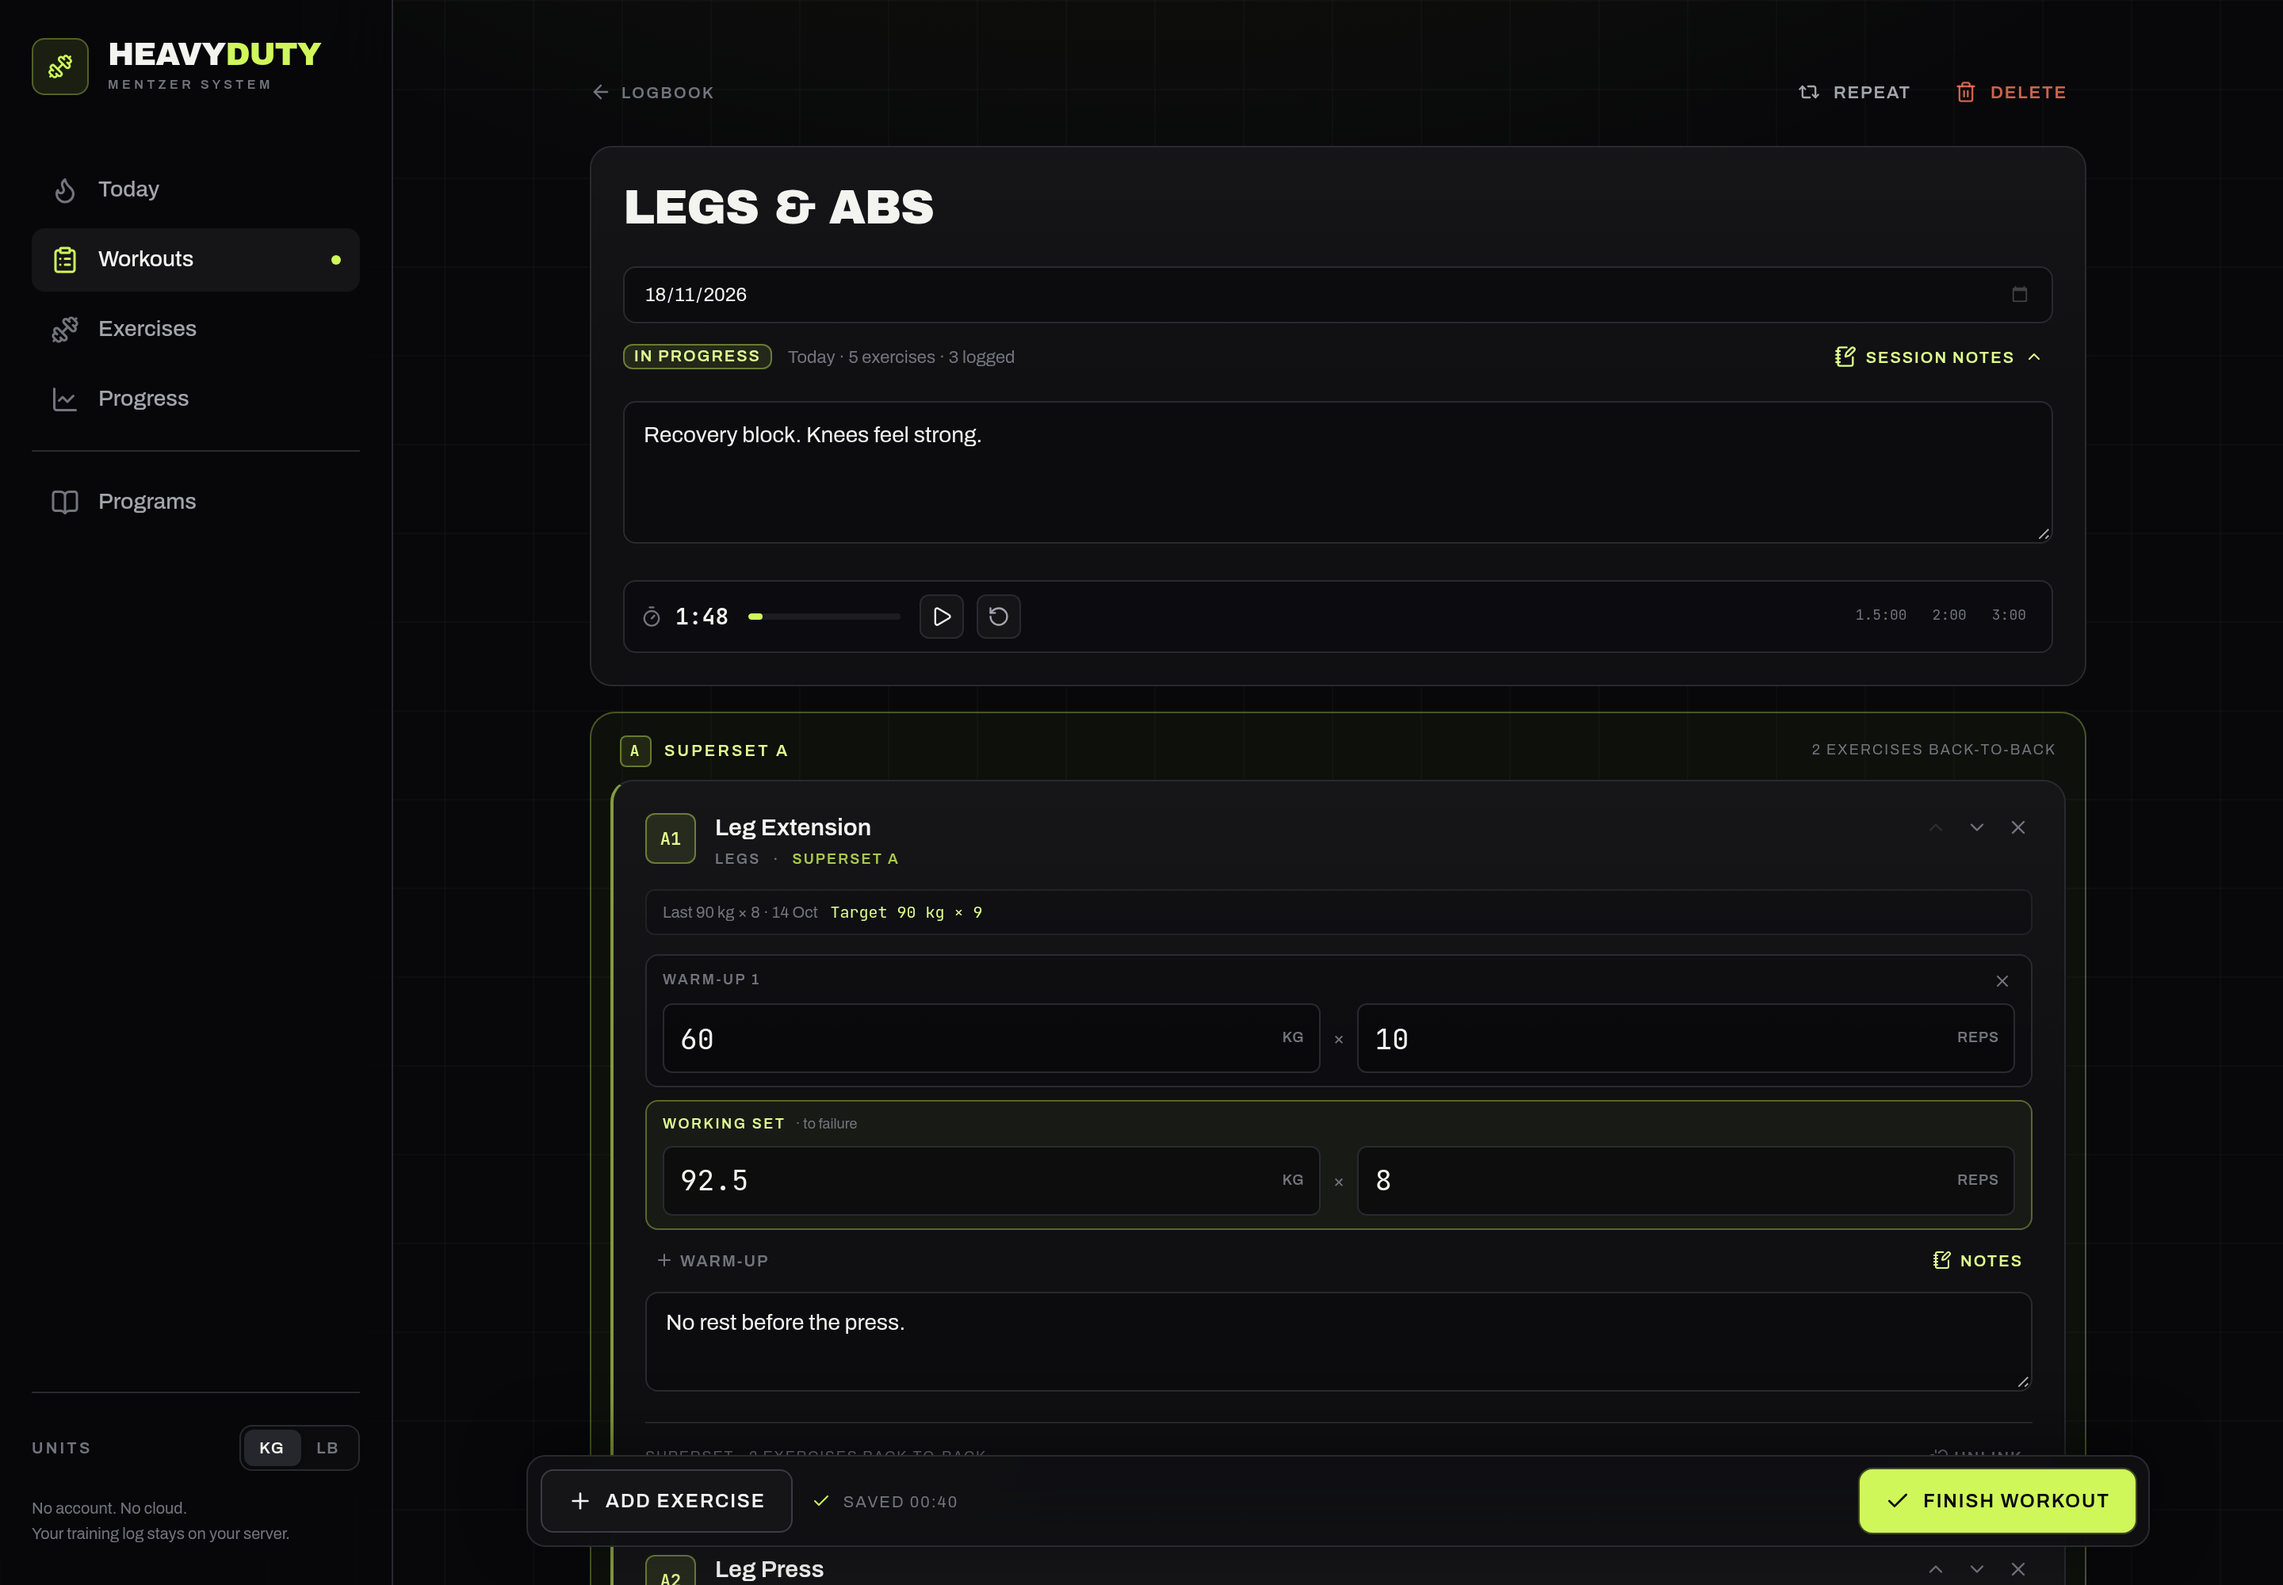
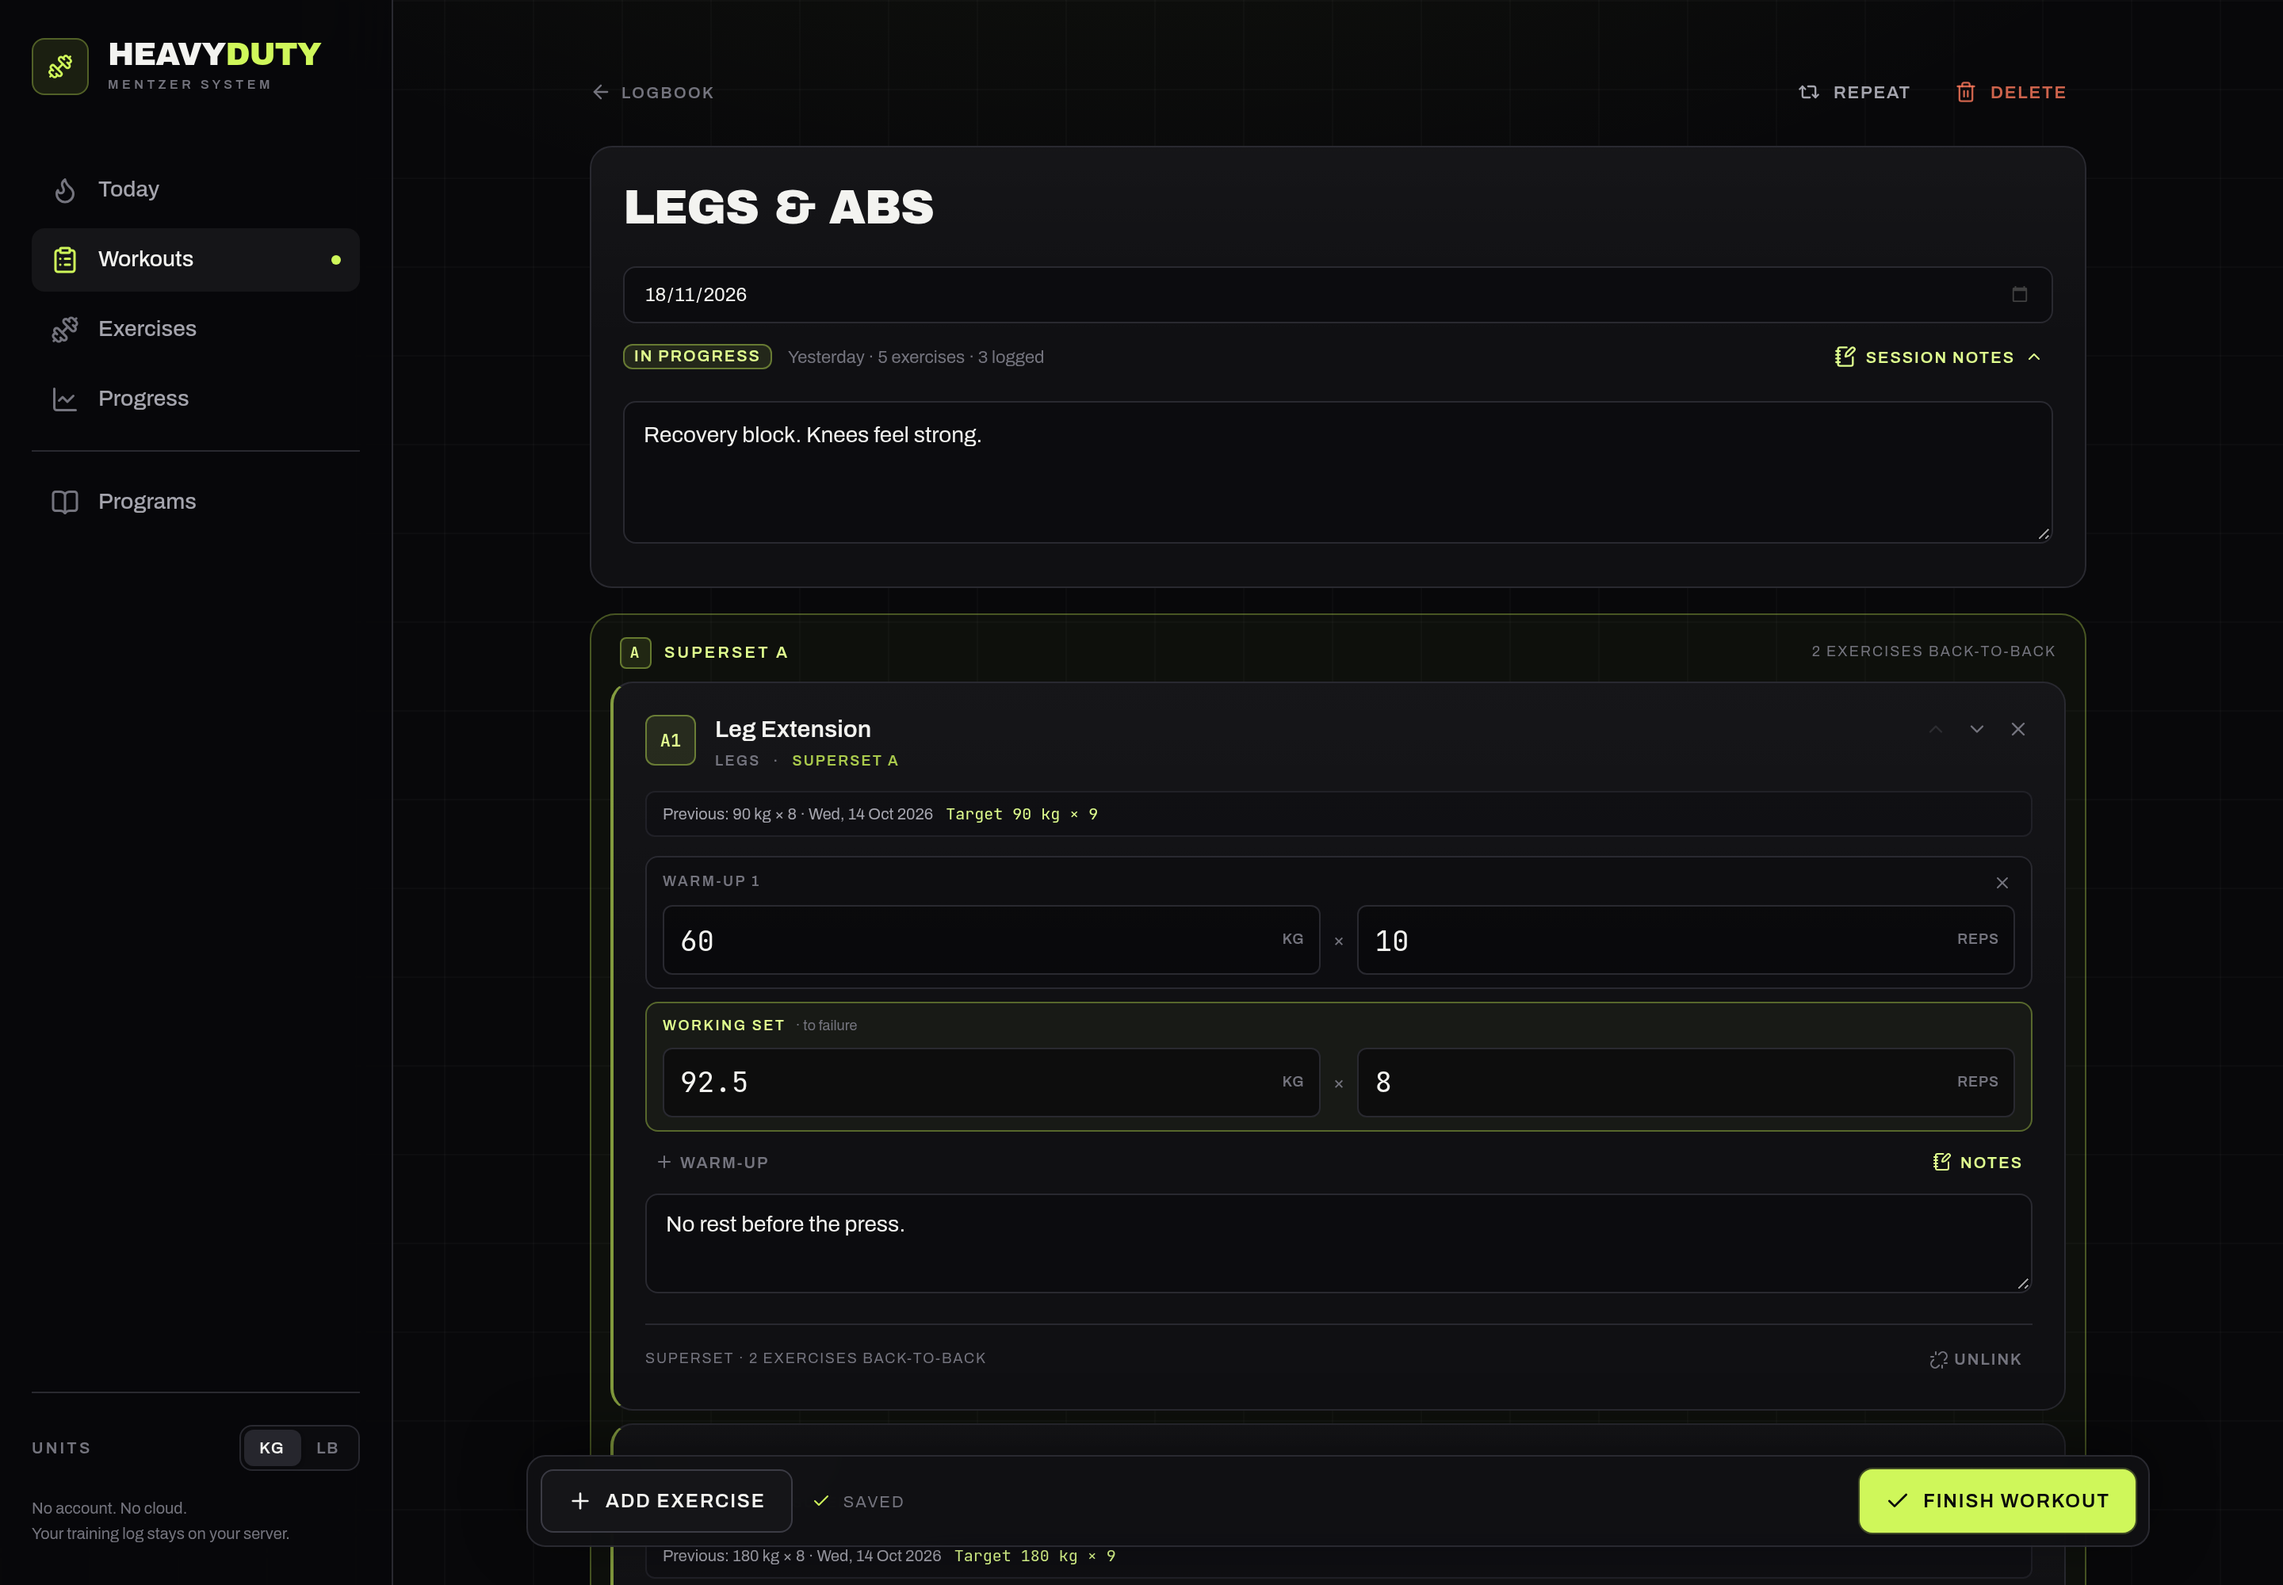
Remove rest timer and show previous performance in workouts
Drop the rest timer component and its formatDuration helper, and replace
the terse last-performance hint with an explicit previous weight, reps,
and absolute date from the last completed session. The date makes old
performances unambiguous, and bodyweight sets render as BW.

Adds unit coverage for the formatter, integration tests proving the last
performance is returned regardless of how long ago it was, and E2E
assertions for both first-time and repeated sessions.

diff --git a/src/components/workout-editor.tsx b/src/components/workout-editor.tsx
@@ -22,7 +22,6 @@ import { Card } from '#/components/ui/card'
 import { ConfirmDialog, Dialog } from '#/components/ui/dialog'
 import { Input } from '#/components/ui/field'
 import { ExercisePicker } from '#/components/exercise-picker'
-import { RestTimer } from '#/components/rest-timer'
 import {
   deleteWorkoutFn,
   repeatWorkoutFn,
@@ -31,7 +30,7 @@ import {
 import { relativeDate, todayISO } from '#/lib/dates'
 import { MUSCLE_LABELS, supersetBlocks, supersetLabels } from '#/lib/labels'
 import { useUnit } from '#/lib/preferences'
-import { suggestNext } from '#/lib/progression'
+import { formatLastPerformance, suggestNext } from '#/lib/progression'
 import type {
   Exercise,
   ExerciseListItem,
@@ -722,8 +721,6 @@ export function WorkoutEditor({
             />
           ) : null}
 
-          <RestTimer />
-
           {saveState === 'error' ? (
             <div className="flex flex-wrap items-center gap-2 rounded-lg border border-ember-500/35 bg-ember-500/10 px-3 py-2.5 text-xs text-ember-400">
               <TriangleAlert className="h-3.5 w-3.5 shrink-0" />
@@ -1016,10 +1013,8 @@ function ExerciseCard({
 }) {
   const working = exercise.sets.find((set) => set.kind === 'working')
   const warmups = exercise.sets.filter((set) => set.kind === 'warmup')
-  const hint = exercise.last
-    ? `Last ${formatWeight(exercise.last.weightKg, unit)}${
-        exercise.last.reps !== null ? ` × ${exercise.last.reps}` : ''
-      } · ${relativeDate(exercise.last.date)}`
+  const previous = exercise.last
+    ? `Previous: ${formatLastPerformance(exercise.last, unit)}`
     : 'First time logging this movement'
 
   return (
@@ -1090,7 +1085,7 @@ function ExerciseCard({
         </div>
 
         <div className="mt-3 flex flex-wrap items-center gap-2 rounded-md border border-line/70 bg-ink-900/50 px-2.5 py-1.5">
-          <span className="text-[10px] text-smoke">{hint}</span>
+          <span className="text-[10px] text-ash">{previous}</span>
           {target.kind === 'load' ? (
             <Badge tone="acid">Add weight</Badge>
           ) : target.kind === 'reps' ? (

diff --git a/e2e/heavy-duty.spec.ts b/e2e/heavy-duty.spec.ts
@@ -197,6 +197,11 @@ test('logs a full Chest & Back session with warm-ups, notes, supersets, autosave
     'Superset A',
   )
 
+  // With no earlier completed session, the editor says so explicitly.
+  await expect(exerciseCard(page, 'Dumbbell Flye')).toContainText(
+    'First time logging this movement',
+  )
+
   const flye = exerciseCard(page, 'Dumbbell Flye')
   await flye.getByRole('button', { name: 'Warm-up' }).click()
   await expect(flye.getByLabel('Warm-up 1 weight in kg')).toBeVisible()
@@ -288,16 +293,6 @@ test('logs a full Chest & Back session with warm-ups, notes, supersets, autosave
     ),
   ).toHaveValue('60')
   await waitForSaved(page)
-
-  // Rest timer start/pause/reset and preset interaction.
-  await page.getByRole('button', { name: 'Start rest timer' }).click()
-  await expect(
-    page.getByRole('button', { name: 'Pause rest timer' }),
-  ).toBeVisible()
-  await page.getByRole('button', { name: '3:00', exact: true }).click()
-  await page.getByRole('button', { name: 'Pause rest timer' }).click()
-  await page.getByRole('button', { name: 'Reset rest timer' }).click()
-  await expect(page.getByText('3:00', { exact: true }).first()).toBeVisible()
 
   await page.locator('#workout-title').fill(CUSTOM_TITLE)
   await waitForSaved(page)
@@ -419,6 +414,15 @@ test('repeats a session with cleared loads and logs a second progression', async
       'Form cues, seat height, how the set felt…',
     ),
   ).toHaveValue('Elbows tucked, slow eccentric')
+
+  // The repeated session shows what each movement did last time, even though
+  // the inputs themselves start empty.
+  await expect(exerciseCard(page, 'Dumbbell Flye')).toContainText(
+    `Previous: 60 kg × 8 · ${mediumDate(TODAY)}`,
+  )
+  await expect(exerciseCard(page, 'Incline Bench Press')).toContainText(
+    `Previous: 70 kg × 9 · ${mediumDate(TODAY)}`,
+  )
 
   await fillWorkingSet(page, 'Dumbbell Flye', 65, 6)
   await fillWorkingSet(page, 'Incline Bench Press', 75, 7)

diff --git a/tests/integration/repo.test.ts b/tests/integration/repo.test.ts
@@ -389,6 +389,75 @@ describe('last performance', () => {
     expect(last?.weightKg).not.toBe(95)
   })
 
+  it('keeps the last performance however long ago it was', () => {
+    const old = repo.createWorkout({
+      date: '2025-01-15',
+      status: 'completed',
+      templateSlug: null,
+    })
+    repo.saveWorkout(
+      payload(old, {
+        date: '2025-01-15',
+        exercises: [entry('dumbbell-flye', [working(50, 10)])],
+      }),
+    )
+
+    const current = repo.createWorkout({
+      date: '2026-11-18',
+      status: 'in_progress',
+      templateSlug: null,
+    })
+    repo.saveWorkout(
+      payload(current, {
+        status: 'in_progress',
+        exercises: [entry('dumbbell-flye', [working(55, 8)])],
+      }),
+    )
+
+    const last = repo.getWorkout(current)!.exercises[0].last
+    expect(last).toMatchObject({
+      workoutId: old,
+      date: '2025-01-15',
+      weightKg: 50,
+      reps: 10,
+    })
+    expect(last?.workoutId).not.toBe(current)
+  })
+
+  it('records a bodyweight performance as the last result', () => {
+    const old = repo.createWorkout({
+      date: '2026-11-01',
+      status: 'completed',
+      templateSlug: null,
+    })
+    repo.saveWorkout(
+      payload(old, {
+        date: '2026-11-01',
+        exercises: [entry('pull-up', [working(null, 12)])],
+      }),
+    )
+
+    const current = repo.createWorkout({
+      date: '2026-11-18',
+      status: 'in_progress',
+      templateSlug: null,
+    })
+    repo.saveWorkout(
+      payload(current, {
+        status: 'in_progress',
+        exercises: [entry('pull-up', [working(null, 9)])],
+      }),
+    )
+
+    const last = repo.getWorkout(current)!.exercises[0].last
+    expect(last).toMatchObject({
+      workoutId: old,
+      date: '2026-11-01',
+      weightKg: null,
+      reps: 12,
+    })
+  })
+
   it('includes a same-day session with a lower id', () => {
     const first = repo.createWorkout({
       date: '2026-11-18',

diff --git a/tests/unit/progression.test.ts b/tests/unit/progression.test.ts
@@ -1,5 +1,40 @@
 import { describe, expect, it } from 'vitest'
-import { REP_MAX, REP_MIN, suggestNext } from '#/lib/progression'
+import {
+  REP_MAX,
+  REP_MIN,
+  formatLastPerformance,
+  suggestNext,
+} from '#/lib/progression'
+
+describe('formatLastPerformance', () => {
+  it('summarises the last completed working set with an absolute date', () => {
+    expect(
+      formatLastPerformance({ weightKg: 90, reps: 8, date: '2026-10-14' }, 'kg'),
+    ).toBe('90 kg × 8 · Wed, 14 Oct 2026')
+  })
+
+  it('converts the load into the display unit', () => {
+    expect(
+      formatLastPerformance({ weightKg: 100, reps: 5, date: '2026-10-14' }, 'lb'),
+    ).toBe('220.5 lb × 5 · Wed, 14 Oct 2026')
+  })
+
+  it('labels bodyweight movements', () => {
+    expect(
+      formatLastPerformance({ weightKg: null, reps: 12, date: '2026-10-14' }, 'kg'),
+    ).toBe('BW × 12 · Wed, 14 Oct 2026')
+  })
+
+  it('handles a missing rep count', () => {
+    expect(
+      formatLastPerformance({ weightKg: 60, reps: null, date: '2026-10-14' }, 'kg'),
+    ).toBe('60 kg × — · Wed, 14 Oct 2026')
+  })
+
+  it('reports when there is no previous performance', () => {
+    expect(formatLastPerformance(null, 'kg')).toBe('No previous performance')
+  })
+})
 
 describe('suggestNext', () => {
   it('sets a baseline for a new movement', () => {

diff --git a/src/lib/progression.ts b/src/lib/progression.ts
@@ -1,8 +1,24 @@
-import type { WeightUnit } from './types'
-import { roundLoad, toKg } from './units'
+import { formatDate } from './dates'
+import type { LastPerformance, WeightUnit } from './types'
+import { formatWeight, roundLoad, toKg } from './units'
 
 export const REP_MIN = 6
 export const REP_MAX = 10
+
+/**
+ * Summarise the last completed working set for an exercise. The absolute date
+ * is always included, so a session from months or years ago is still readable
+ * at a glance.
+ */
+export function formatLastPerformance(
+  last: Pick<LastPerformance, 'weightKg' | 'reps' | 'date'> | null,
+  unit: WeightUnit,
+): string {
+  if (!last) return 'No previous performance'
+  const weight = last.weightKg === null ? 'BW' : formatWeight(last.weightKg, unit)
+  const reps = last.reps === null ? '—' : `${last.reps}`
+  return `${weight} × ${reps} · ${formatDate(last.date, 'medium')}`
+}
 
 export interface NextTarget {
   weightKg: number | null

diff --git a/tests/unit/dates.test.ts b/tests/unit/dates.test.ts
@@ -5,7 +5,6 @@ import {
   daysSince,
   formatDate,
   formatDayParts,
-  formatDuration,
   formatMonth,
   formatShortDate,
   isISODate,
@@ -125,20 +124,5 @@ describe('relativeDate', () => {
 
   it('falls back to a short date for older entries', () => {
     expect(relativeDate('2026-10-20', today)).toBe('20 Oct')
-  })
-})
-
-describe('formatDuration', () => {
-  it('formats timer values', () => {
-    expect(formatDuration(0)).toBe('0:00')
-    expect(formatDuration(59)).toBe('0:59')
-    expect(formatDuration(60)).toBe('1:00')
-    expect(formatDuration(90.4)).toBe('1:30')
-    expect(formatDuration(3599)).toBe('59:59')
-    expect(formatDuration(3600)).toBe('60:00')
-  })
-
-  it('clamps negative values to zero', () => {
-    expect(formatDuration(-10)).toBe('0:00')
   })
 })

diff --git a/src/lib/dates.ts b/src/lib/dates.ts
@@ -107,13 +107,6 @@ export function relativeDate(isoDate: string, today = todayISO()): string {
   return formatDate(isoDate, 'short')
 }
 
-export function formatDuration(totalSeconds: number): string {
-  const safe = Math.max(0, Math.round(totalSeconds))
-  const minutes = Math.floor(safe / 60)
-  const seconds = safe % 60
-  return `${minutes}:${`${seconds}`.padStart(2, '0')}`
-}
-
 export function weekdayName(isoDate: string): string {
   return new Intl.DateTimeFormat('en-GB', { weekday: 'long' }).format(
     parseISODate(isoDate),

diff --git a/README.md b/README.md
@@ -15,7 +15,7 @@ telemetry.
 
 | | |
 | --- | --- |
-| <img src="docs/screenshots/dashboard.png" alt="Dashboard with today's session, recovery window and bodyweight trend" /> | <img src="docs/screenshots/editor.png" alt="Workout editor with supersets, warm-ups, notes and the rest timer" /> |
+| <img src="docs/screenshots/dashboard.png" alt="Dashboard with today's session, recovery window and bodyweight trend" /> | <img src="docs/screenshots/editor.png" alt="Workout editor with supersets, warm-ups, notes and previous-performance targets" /> |
 | <img src="docs/screenshots/logbook.png" alt="Logbook with sessions grouped by month" /> | <img src="docs/screenshots/exercise-history.png" alt="Exercise history with a strength-over-time chart" /> |
 | <img src="docs/screenshots/progress.png" alt="Bodyweight progress chart" /> | <img src="docs/screenshots/programs.png" alt="The Heavy Duty programs and principles" /> |
 
@@ -32,8 +32,9 @@ telemetry.
   resume later.
 - **Heavy Duty programs** — Chest & Back, Legs & Abs, Shoulders & Arms, and
   Full Body, with the next program suggested automatically.
-- **Double progression** — each exercise shows its last performance and a
-  target: add reps until the top of the 6–10 range, then add weight.
+- **Double progression** — each exercise shows the weight and reps from its
+  last completed session, however long ago that was, plus a target: add reps
+  until the top of the 6–10 range, then add weight.
 - **History charts** — weight per session with reps shown on hover or tap.
 - **Bodyweight tracking** — log weight over time with a 30-day delta.
 - **Exercise library** — 36 seeded movements plus custom exercises.
@@ -221,7 +222,8 @@ and drops privilege escalation via `no-new-privileges`.
   completed session and clears the 96-hour window after four days. It is a
   guideline, not a green light — train only when you feel fully recovered.
 - **Double progression**: stay at the same load and add reps until you reach 10,
-  then add weight and restart at 6.
+  then add weight and restart at 6. The editor always shows the last completed
+  weight and reps so the logbook is the only thing you need to beat.
 - **Beat the logbook** or the set did not count.
 
 Suggested rotation: Chest & Back → Legs & Abs → Shoulders & Arms → rest and
